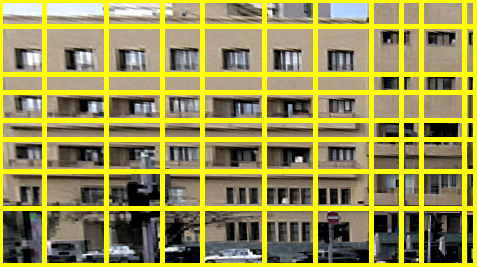
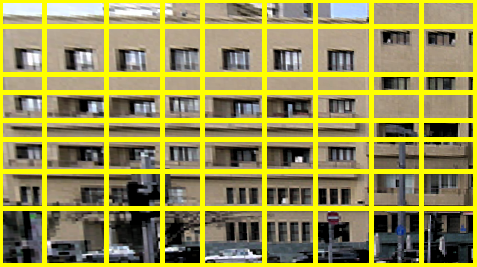
update.

Changed region(s): [[0.9686, 0.0, 0.9979, 0.9888], [0.8218, 0.0, 0.8512, 0.9888]]

diff --git a/ImageBasedFacadeReconstruction/FacadeSegmentation.cpp b/ImageBasedFacadeReconstruction/FacadeSegmentation.cpp
@@ -69,6 +69,14 @@ namespace fs {
 		std::vector<float> y_splits_strong;
 		getSplitLines(Ver, 0.5, y_splits_strong);
 
+		// ignore the split lines that are too close to the border
+		if (y_splits_strong.size() > 0 && y_splits_strong[0] < range2.start) {
+			y_splits_strong.erase(y_splits_strong.begin());
+		}
+		if (y_splits_strong.size() > 0 && img.rows - 1 - y_splits_strong.back() < range2.start) {
+			y_splits_strong.pop_back();
+		}
+
 		for (int iter = 0; iter < 2; ++iter) {
 			// find the local minima of Ver
 			std::vector<float> y_splits;
@@ -176,8 +184,10 @@ namespace fs {
 					heights.push_back(h);
 				}
 				float stddev = utils::stddev(heights);
-				float avg_h = utils::mean(heights);
-				stddev /= avg_h;
+				if (heights.size() > 0) {
+					float avg_h = utils::mean(heights);
+					stddev /= avg_h;
+				}
 
 				if (avg_Ver * alpha + stddev * (1 - alpha) < min_val) {
 					min_val = avg_Ver  * alpha + stddev * (1 - alpha);
